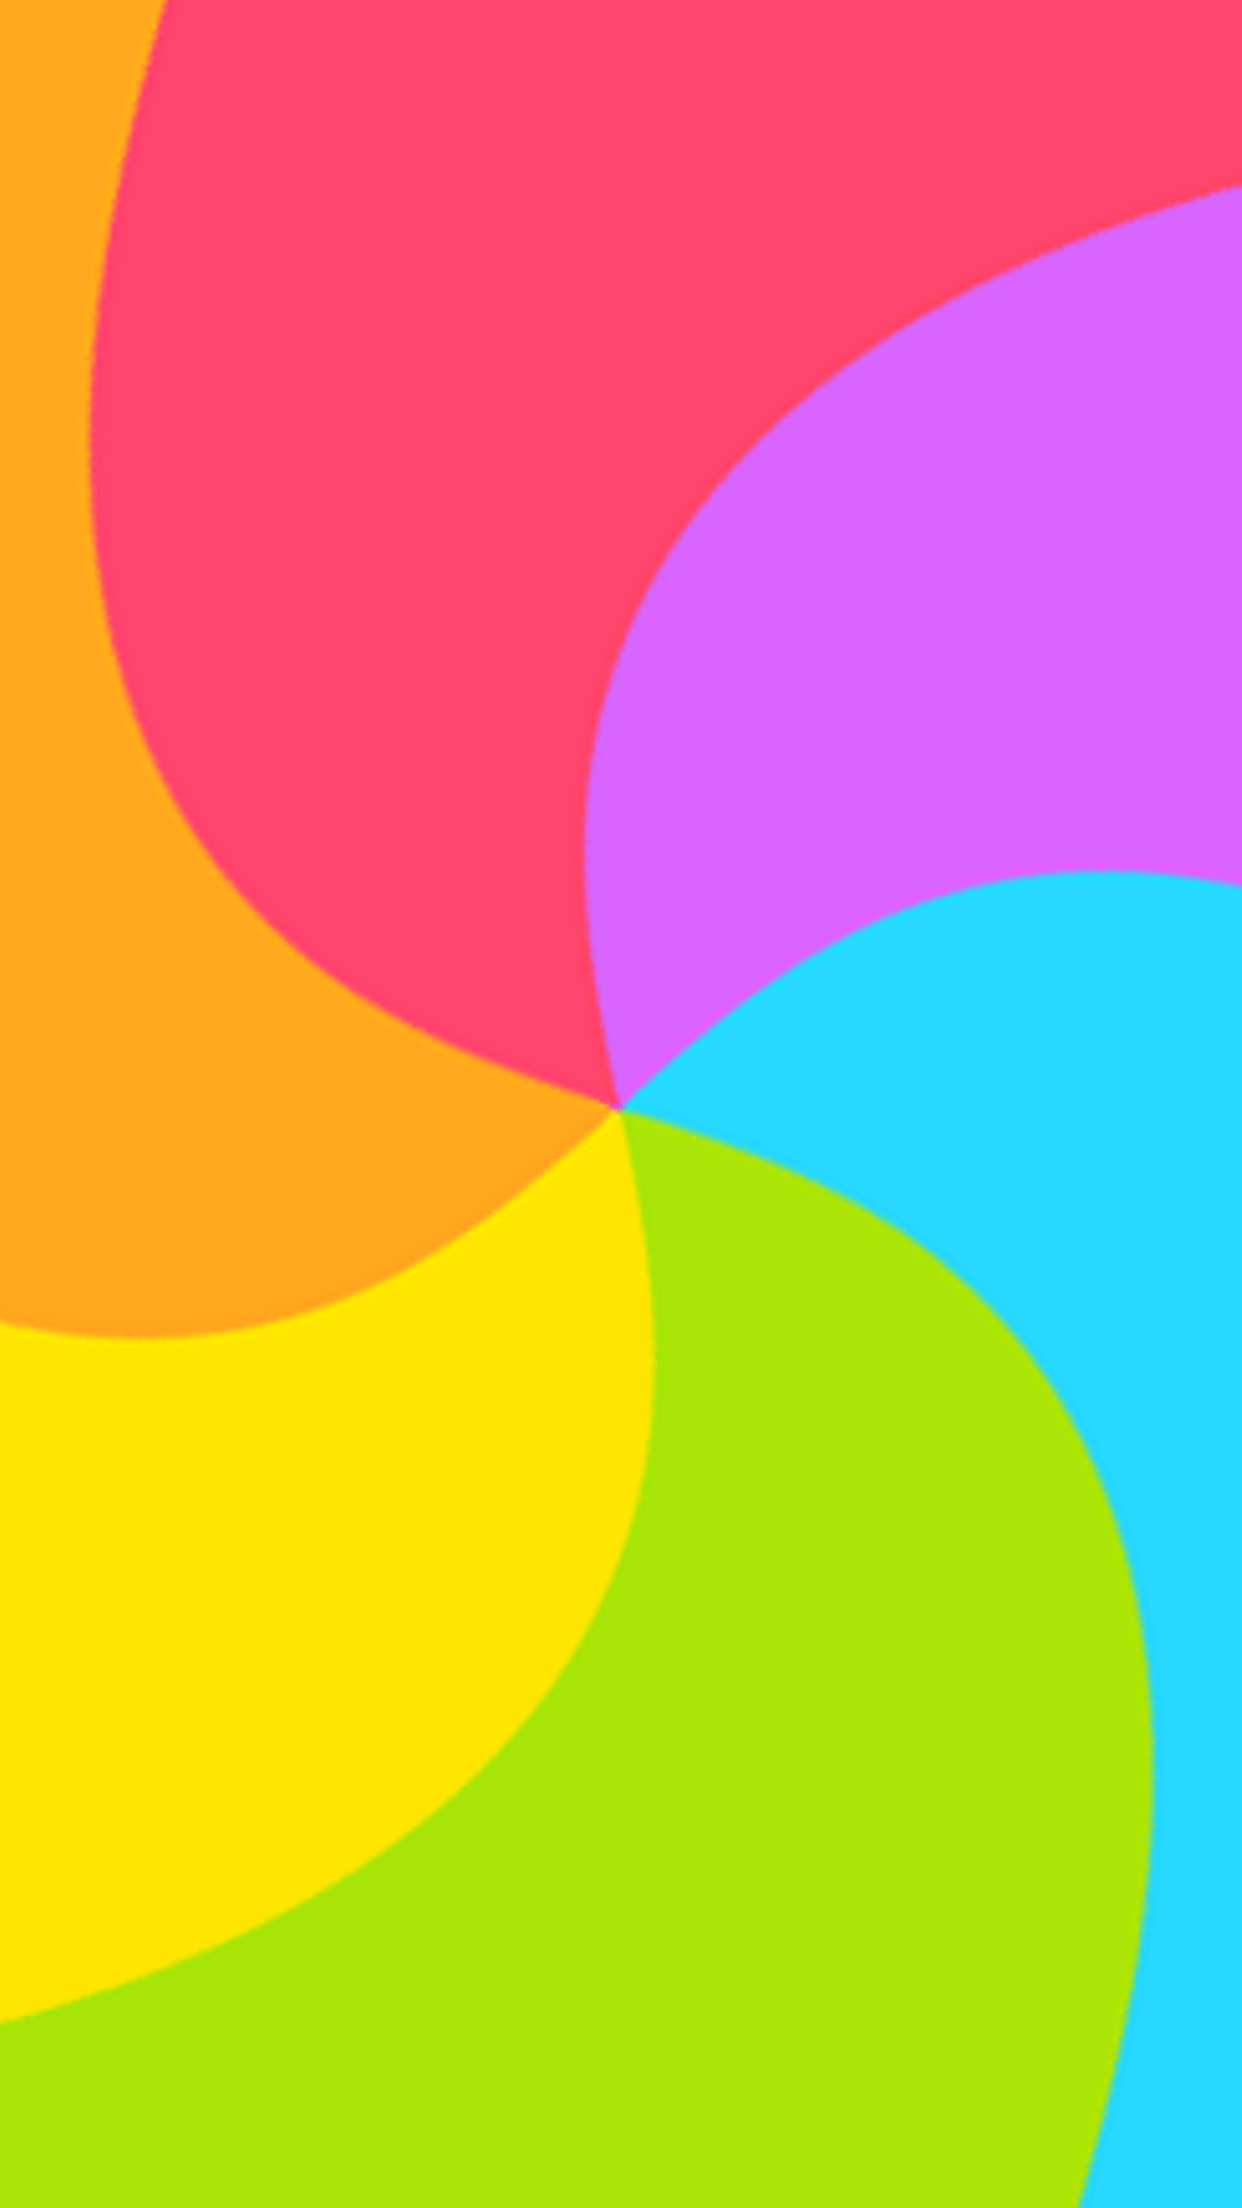
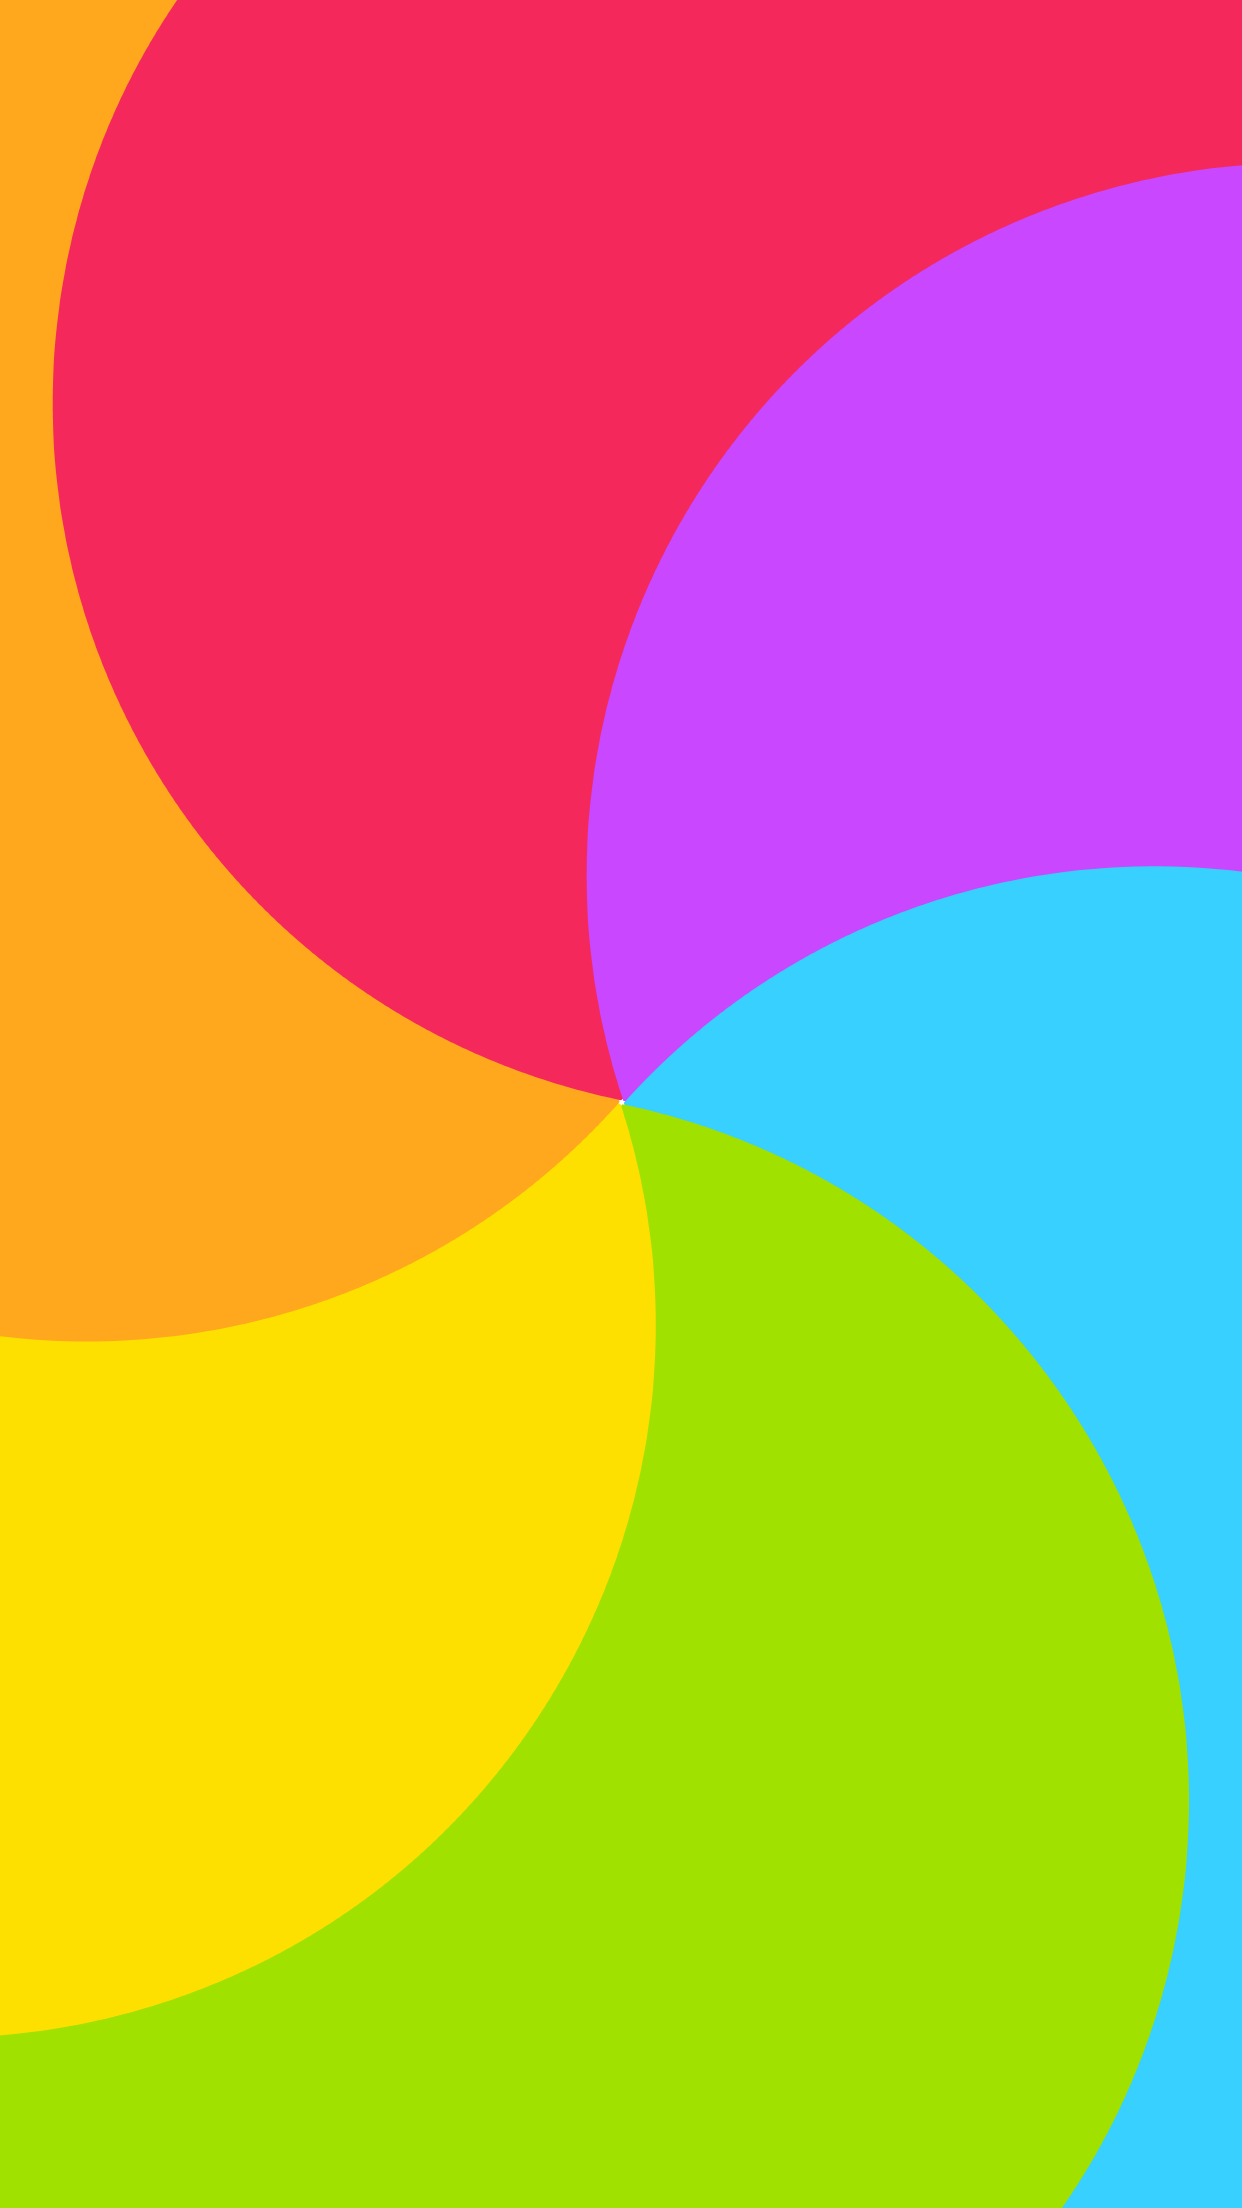
updated higher res spalsh gif, adjust timepicker sizes

diff --git a/src/components/TimePicker/style.js b/src/components/TimePicker/style.js
@@ -1,6 +1,7 @@
 import {StyleSheet, Dimensions} from 'react-native';
 const { height, width } = Dimensions.get('window');
 import {CONFIG} from '../../../config';
+import {isIphoneX} from "react-native-iphone-x-helper";
 const colors = CONFIG.colors;
 const styles = StyleSheet.create({
     container:{
@@ -68,23 +69,30 @@ const styles = StyleSheet.create({
         backgroundColor: colors.appColor,
         opacity: 0.1,
         position: 'absolute',
-        left: 0
+        left: 0,
     },
     picker: {
         height: '100%',
-        width: 100,
+        // width: 100,
+        width: width * 0.3,
+        borderWidth: 0
     },
     pickerItem: {
         height: '100%',
-        color: colors.appColor,
-        fontSize: 64,
-        fontFamily: 'MuseoSansRounded-900'
+        color: colors.appColor, 
+        fontSize: (((height - (isIphoneX() ? 120 : 0)) / 850) * 27)+ 37,
+        // fontSize: 64,
+        fontFamily: 'MuseoSansRounded-900',
+        
 
     },
     timeDivider: {
         color: colors.appColor,
-        fontSize: 64,
-        fontFamily: 'MuseoSansRounded-900'
+        fontSize: (((height - (isIphoneX() ? 120 : 0)) / 850) * 27)+ 37,
+        // fontSize: 64,
+        fontFamily: 'MuseoSansRounded-900',
+        borderWidth: 0,
+        marginTop: -10
     },
 
 

diff --git a/src/components/TimePicker/TimePicker.js b/src/components/TimePicker/TimePicker.js
@@ -7,12 +7,13 @@ import {
     TouchableOpacity,
     Dimensions
 } from "react-native";
+import {isIphoneX} from "react-native-iphone-x-helper";
 import DeviceInfo from 'react-native-device-info';
 import momentTz from "moment-timezone";
 import styles from './style'
 const MAX_HOURS = 23;
 const MAX_MINUTES = 59;
-const { width } = Dimensions.get('window');
+const { height, width } = Dimensions.get('window');
 export default class TimePicker extends Component {
     static propTypes = {
         selectedHours: PropTypes.number,
@@ -299,8 +300,8 @@ export default class TimePicker extends Component {
                 {
                     !twentyFourHour &&
                     <Picker
-                        style={styles.picker}
-                        itemStyle={styles.pickerItem}
+                        style={[styles.picker, {width: width * 0.25, borderWidth: 0, marginLeft: width * -0.06}]}
+                        itemStyle={[styles.pickerItem, {fontSize: (((height - (isIphoneX() ? 120 : 0)) / 850) * 30)+ 15}]}
                         selectedValue={selectedDayHalf}
                         onValueChange={( itemValue ) => this.handleChangeDayHalf(itemValue)}
                     >
